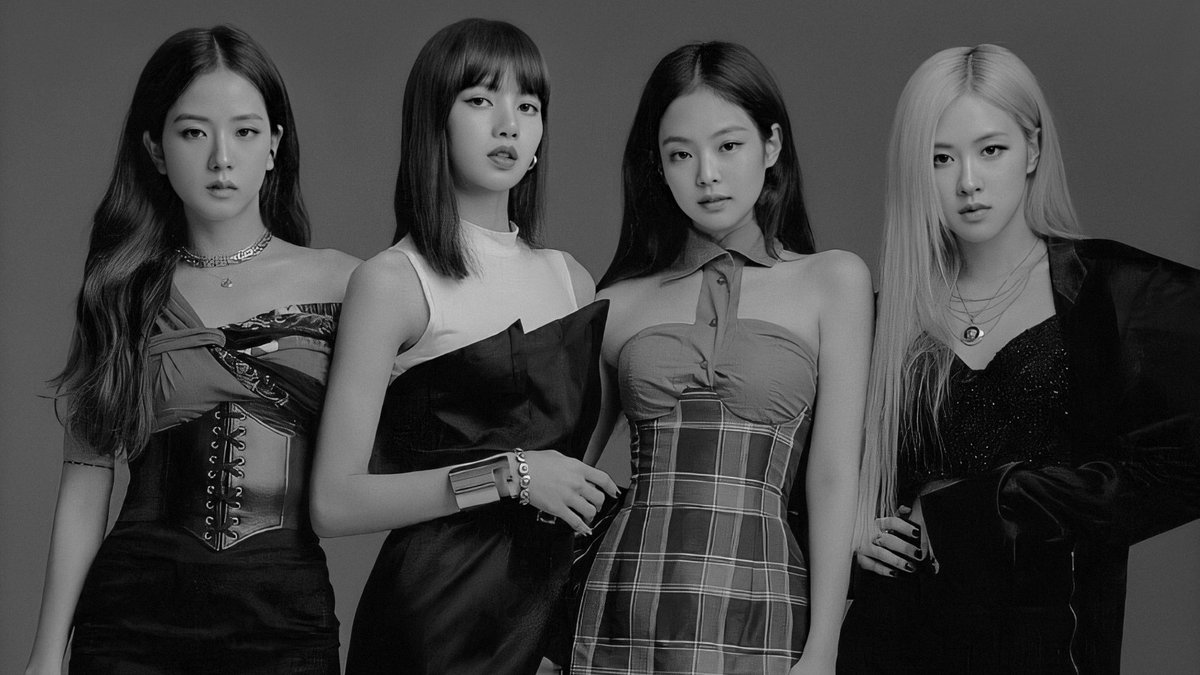
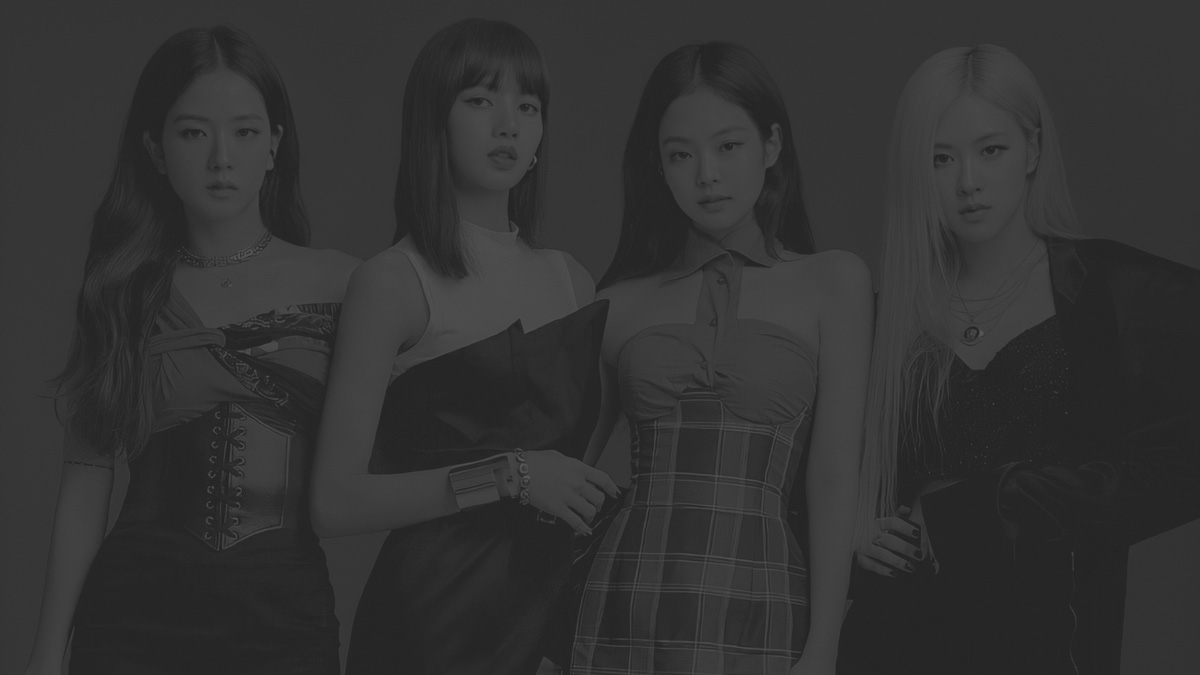
index responsive

diff --git a/pages/index.html b/pages/index.html
@@ -74,63 +74,66 @@
             <div id="container">
                 <div class="top">
                     <div class="section-line"></div>
-                    <h1 class="title">HOME</h1>
-                    <p class="subtitle">Welcome</p>
+                    <h1 class="title">WELCOME TO OUR STORE</h1>
+                    <p class="text-white text-center">See our latest product for your recommendation</p>
                 </div>
 
-                <img src="../assets/button/previous.svg" alt="Prev" id="prev" width="50px">
-                <div id="slider">
-                    <div class="slide">
-                        <div class="slide-copy">
-                            <h2 class="text-white">Blackpink Merchandise</h2>
-                            <p class="text-white">Lorem ipsum dolor sit amet, consectetur adipiscing elit. Sed vitae
-                                commodo sem. Integer eros nibh, molestie congue elementum quis, mattis nec tortor.
-                                Vivamus sed hendrerit sed vitae orci convallis.</p>
+                <div class="slider-wrapper">
+                    <img src="../assets/button/previous.svg" alt="Prev" id="prev" width="50px">
+                    <div id="slider">
+                        <div class="slide">
+                            <div class="slide-copy">
+                                <h2 class="text-white">Blackpink Merchandise</h2>
+                                <p class="text-white">Lorem ipsum dolor sit amet, consectetur adipiscing elit. Sed vitae
+                                    commodo sem. Integer eros nibh, molestie congue elementum quis, mattis nec tortor.
+                                    Vivamus sed hendrerit sed vitae orci convallis.</p>
+                            </div>
+                            <img src="../assets/picture/unnamed (4).jpg">
                         </div>
-                        <img src="../assets/picture/unnamed (4).jpg">
-                    </div>
 
-                    <div class="slide">
-                        <div class="slide-copy">
-                            <h2 class="text-white">BTS Dark & Wild Album</h2>
-                            <p class="text-white">Lorem ipsum dolor sit amet, consectetur adipiscing elit. Sed vitae
-                                commodo sem. Integer eros nibh, molestie congue elementum quis, mattis nec tortor.
-                                Vivamus sed hendrerit sed vitae orci convallis.</p>
+                        <div class="slide">
+                            <div class="slide-copy">
+                                <h2 class="text-white">BTS Dark & Wild Album</h2>
+                                <p class="text-white">Lorem ipsum dolor sit amet, consectetur adipiscing elit. Sed vitae
+                                    commodo sem. Integer eros nibh, molestie congue elementum quis, mattis nec tortor.
+                                    Vivamus sed hendrerit sed vitae orci convallis.</p>
+                            </div>
+                            <img src="../assets/album/bts/bts cover 5.png">
                         </div>
-                        <img src="../assets/album/bts/bts cover 5.png">
-                    </div>
 
-                    <div class="slide">
-                        <div class="slide-copy">
-                            <h2 class="text-white">ITZY Hoodie</h2>
-                            <p class="text-white">Lorem ipsum dolor sit amet, consectetur adipiscing elit. Sed vitae
-                                commodo sem. Integer eros nibh, molestie congue elementum quis, mattis nec tortor.
-                                Vivamus sed hendrerit sed vitae orci convallis.</p>
+                        <div class="slide">
+                            <div class="slide-copy">
+                                <h2 class="text-white">ITZY Hoodie</h2>
+                                <p class="text-white">Lorem ipsum dolor sit amet, consectetur adipiscing elit. Sed vitae
+                                    commodo sem. Integer eros nibh, molestie congue elementum quis, mattis nec tortor.
+                                    Vivamus sed hendrerit sed vitae orci convallis.</p>
+                            </div>
+                            <img src="../assets/merch/itzy/itzy merch 1.png">
                         </div>
-                        <img src="../assets/merch/itzy/itzy merch 1.png">
-                    </div>
 
-                    <div class="slide">
-                        <div class="slide-copy">
-                            <h2 class="text-white">Red Velvet Merchandise</h2>
-                            <p class="text-white">Lorem ipsum dolor sit amet, consectetur adipiscing elit. Sed vitae
-                                commodo sem. Integer eros nibh, molestie congue elementum quis, mattis nec tortor.
-                                Vivamus sed hendrerit sed vitae orci convallis.</p>
+                        <div class="slide">
+                            <div class="slide-copy">
+                                <h2 class="text-white">Red Velvet Merchandise</h2>
+                                <p class="text-white">Lorem ipsum dolor sit amet, consectetur adipiscing elit. Sed vitae
+                                    commodo sem. Integer eros nibh, molestie congue elementum quis, mattis nec tortor.
+                                    Vivamus sed hendrerit sed vitae orci convallis.</p>
+                            </div>
+                            <img src="../assets/merch/rv/rv merch 4.png">
                         </div>
-                        <img src="../assets/merch/rv/rv merch 4.png">
-                    </div>
 
-                    <div class="slide">
-                        <div class="slide-copy">
-                            <h2 class="text-white">BTS Hoodie</h2>
-                            <p class="text-white">Lorem ipsum dolor sit amet, consectetur adipiscing elit. Sed vitae
-                                commodo sem. Integer eros nibh, molestie congue elementum quis, mattis nec tortor.
-                                Vivamus sed hendrerit sed vitae orci convallis.</p>
+                        <div class="slide">
+                            <div class="slide-copy">
+                                <h2 class="text-white">BTS Hoodie</h2>
+                                <p class="text-white">Lorem ipsum dolor sit amet, consectetur adipiscing elit. Sed vitae
+                                    commodo sem. Integer eros nibh, molestie congue elementum quis, mattis nec tortor.
+                                    Vivamus sed hendrerit sed vitae orci convallis.</p>
+                            </div>
+                            <img src="../assets/merch/bts/bts merch 2.png">
                         </div>
-                        <img src="../assets/merch/bts/bts merch 2.png">
                     </div>
+                    <img src="../assets/button/next.svg" alt="Next" id="next" width="50px">
                 </div>
-                <img src="../assets/button/next.svg" alt="Next" id="next" width="50px">
+
             </div>
         </div>
     </div>

diff --git a/styles/index.css b/styles/index.css
@@ -3,12 +3,10 @@
 .landing {
     background: url("../assets/picture/landing.jpg") top center;
     background-size: cover;
-    height: 100vh;
-    min-height: 100vh;
+    padding: 4rem 0 2rem 2.75rem;
 }
 
 .landing-row {
-    height: 100vh;
     display: flex;
     justify-content: center;
     align-items: center;
@@ -23,6 +21,11 @@ h1 {
     width: 980px;
     overflow: hidden;
     margin-bottom: 160px;
+}
+
+.slider-wrapper {
+    display: flex;
+    align-items: center;
 }
 
 #slider {
@@ -51,31 +54,29 @@ h1 {
     bottom: 0;
     left: 0;
     padding: 20px;
-    background: 7f7f7f;
+    background: #7f7f7f;
     background: rgba(0, 0, 0, 0.5);
 }
 
 #prev,
 #next {
-    float: left;
-    margin-top: 130px;
     cursor: pointer;
     position: relative;
     z-index: 100;
     background-color: #fb839e;
-    padding: 1rem;
+    padding: 0.75rem;
     border-radius: 50%;
     position: absolute;
 }
 
 #prev {
     left: 0;
-    margin-left: 100px;
+    margin-left: 3rem;
 }
 
 #next {
     right: 0;
-    margin-right: 100px;
+    margin-right: 3rem;
 }
 
 .top {
@@ -94,8 +95,12 @@ h1 {
 }
 
 .artist {
-    margin-top: 50px;
-    justify-content: space-evenly;
+    display: grid;
+    grid-template-columns: repeat(5, 1fr);
+    grid-template-rows: auto;
+    gap: 30px;
+    margin: 5rem 0 2rem 0;
+    padding: 0 1rem;
 }
 
 .section2 {
@@ -222,5 +227,54 @@ h1 {
 
     100% {
         transform: rotate(360deg);
+    }
+}
+
+@media only screen and (max-width: 600px) {
+    .merch-content {
+        grid-template-columns: repeat(1, 1fr);
+    }
+
+    .merchandise-section {
+        padding: 3rem 1rem;
+    }
+
+    .landing {
+        padding: 4rem 1rem;
+    }
+
+    .slider-wrapper {
+        align-items: flex-end;
+    }
+
+    #slider img {
+        width: 100%;
+        object-fit: cover;
+        border-radius: 20px;
+    }
+
+    #prev {
+        margin-left: 1rem;
+        margin-top: 3rem;
+    }
+
+    #next {
+        margin-right: 1rem;
+        margin-top: 3rem;
+    }
+
+    #prev,
+    #next {
+        padding: 0.75rem;
+        border-radius: 50%;
+        position: absolute;
+        width: 30px;
+    }
+
+    .artist {
+        grid-template-columns: repeat(1, 1fr);
+        gap: 30px;
+        margin: 3rem 0 0 0;
+        padding: 0 1rem;
     }
 }
